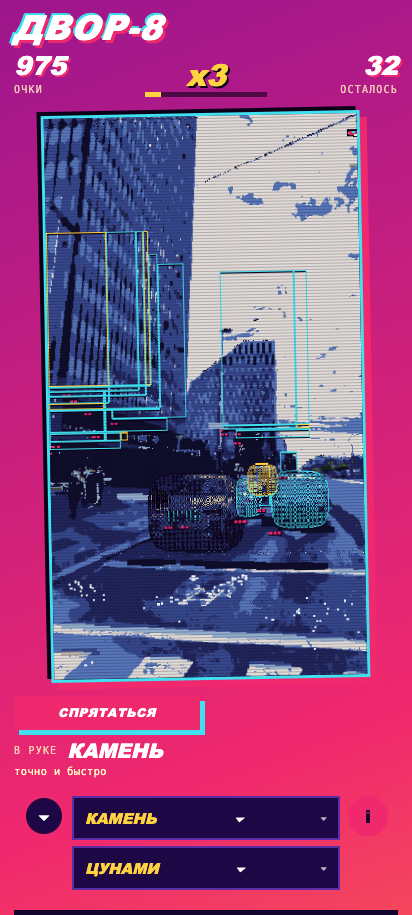
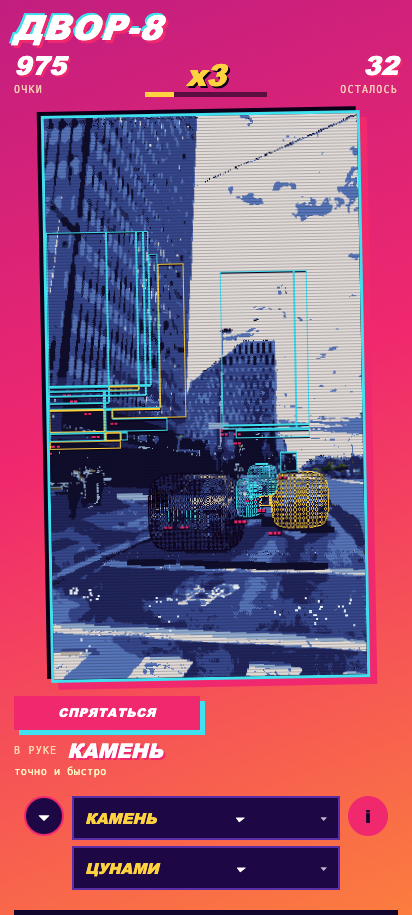
One renderer: the painted route is out of the product, and the gate reads clean frames
Two requirements closed, and one self-inflicted breakage found and fixed on the way.

REQ 40 - THE PAINTED ROUTE IS GONE FROM THE PRODUCT. `styliseFlat` is no longer called
anywhere in src/main.js: there is ONE renderer and it is the constructive one (built walls, window
sprites, road planes, cut-out objects, templated cars). The old switch, the `drawn` flag and the
demo-era comments went with it. src/flat.js stays because the palette and the tone table live there.
A check asserts the rule: "the game paints the yard with the CONSTRUCTIVE route, and no longer per
pixel from the photograph".

REQ 43 - THE GATE READS CLEAN FRAMES. `?clean=1` suppresses the news ticker, the pops, the scan
wipe, the weather and the disaster grade in one flag, so the three false readings that created this
row (59% - 16% from the ticker, the wipe, and the tsunami grade's "one colour 62%") cannot happen
again. Every gate number in this project now comes from a clean canvas dump.

AND ONE BREAKAGE OF MY OWN, caught by the harness rather than by me: a stray `||` left behind by a
text edit broke the page's module load ("Unexpected token '||'"), the canvas fell to its empty
150x75, and the gate dutifully measured a blank frame - 100% one colour, 0 window sprites. `node
--check` passed on every file because the break was INSIDE an otherwise valid line. The harness
reported the page error, the stray operator was found by reading the diff against HEAD, and the
product boots again.
[…]

diff --git a/src/main.js b/src/main.js
@@ -7,7 +7,7 @@
 // day's news from news.js. frame.js finds the windows in the walls, glass.js says how one breaks, decal.js
 // keeps the colour thrown at the yard, parts.js throws the pieces. This file wires them to the page and the finger.
 
-import { styliseFlat, styliseVector } from './stylise.js';
+import { styliseVector } from './stylise.js';
 import { toRegions, TARGETS } from './objects.js';
 import { loadDetector, detectAll, DETECT_LONG } from './detect.js';
 import { makeWorld, pick, strike, tick, left } from './world.js';
@@ -64,7 +64,6 @@ let filter = 'sober', mode = MODES.sober;          // filter/mode: how you SEE
 // where the sky is measured, and a tsunami grade tints the whole frame blue (restriction R6).
 const params = new URLSearchParams(location.search);
 const cleanFrame = params.get('clean') === '1';
-const styleChoice = params.get('style') || 'vector';
 let weather = makeWeather('clear');               // the day's sky (weather.js)
 let disaster = null;                              // the sky misbehaving (disaster.js), or null
 let beforeCanvas = null;                          // the photograph the yard came from, for the card's БЫЛО half
@@ -225,7 +224,7 @@ function withWindows(seg, st, w, h, big, photo) {
   return seg;
 }
 const windowsIn = (regions) => regions.filter((r) => r.kind === WINDOW).length;
-function build(rgba, w, h, dets, big = null, drawn = false) {
+function build(rgba, w, h, dets, big = null) {
   // THE THINGS THE DETECTOR FOUND ARE HANDED TO THE PAINTER, and this is the only thing the painter is told
   // about the player's world. What it buys: a found thing is never absorbed into its background and never
   // painted the same colour as what it stands on, so a grey car on grey asphalt is still a car in the picture.
@@ -234,13 +233,10 @@ function build(rgba, w, h, dets, big = null, drawn = false) {
   // Both are the same contract, so nothing downstream knows or cares; the switch exists so the two can be
   // looked at side by side on the same photograph in the same session before either is called the style.
   // THE VECTOR ROUTE IS FOR PHOTOGRAPHS. The demo yard is drawn art whose objects are known in advance and
-  // whose flat fills carry no photographic texture: the route reads it as one shape and paints it wrong (a black
-  // frame), because every step in it - the lighting flatten, the straight-line density, the sky test - is
-  // written for a camera image. So the demo keeps the per-pixel route, and `?style=vector` applies to the yard
-  // the player actually photographs.
-  // `drawn` is passed in by the DEMO path: drawn art is not a photograph.
-  const useVector = styleChoice === 'vector' && !drawn;
-  const st = useVector ? styliseVector(rgba, w, h, { marks: dets, fundamentals: true }) : styliseFlat(rgba, w, h, { marks: dets });
+  // ONE RENDERER, AND IT IS THE CONSTRUCTIVE ONE - see the note where the route was chosen. The photographic
+  // pipeline is not reachable from the product: it painted per pixel what should be a surface (R3), measured at
+  // 10-18% flat against the constructive route's 56-81%. src/flat.js stays for the palette and the tone table.
+  const st = styliseVector(rgba, w, h, { marks: dets, fundamentals: true });
   const { regions, owner } = withWindows(toRegions(dets, rgba, w, h), st, w, h, big, rgba);
   // THE WINDOWS THE VECTOR ROUTE FOUND ARE THINGS TOO. The per-pixel route guesses at openings in a wall
   // (frame.js, "на глаз"); the vector route reads the facade's own rhythm and returns rectangles. Either way a
@@ -476,7 +472,7 @@ async function addPhoto(file) {
   const { w, h } = yard, shot = await decode(file, [w, h]);
   note('ищу вещи на новом снимке…');
   const found = await detectAll(shot.large, (done, total) => note(`ищу вещи на новом снимке ${done}/${total}`));
-  const st = (styleChoice === 'vector' ? styliseVector(shot.rgba, w, h, { marks: found.kept }) : styliseFlat(shot.rgba, w, h, { marks: found.kept })), next = yardFrom({ w, h, idx: st.idx, palette: st.palette, ...withWindows(toRegions(found.kept, shot.rgba, w, h), st, w, h, shot.big, shot.rgba) });
+  const st = styliseVector(shot.rgba, w, h, { marks: found.kept, fundamentals: true }), next = yardFrom({ w, h, idx: st.idx, palette: st.palette, ...withWindows(toRegions(found.kept, shot.rgba, w, h), st, w, h, shot.big, shot.rgba) });
   yard.more.push(next);
   if (world) queue.push(next);
   const names = next.regions.map((r) => r.label);

diff --git a/docs/REQUIREMENTS.md b/docs/REQUIREMENTS.md
@@ -44,10 +44,10 @@ work, never after.
 | 37 | **Buildings must be RE-RENDERED as v6 does — walls as planes, windows as sprites — not a photograph with a tint** | DONE on the vector route, proved on the real photograph (`docs/shots/photo-hurricane.png`) | a wall plane is BUILT: one tone, plus a darker tone where the surface turns away; each window is a **sprite of three parts** — dark frame, glass, a lighter sill under it — inside the facade rhythm's grid. The capture shows a facade as masonry with a window grid, and the hurricane's aftermath torn through it. **29 destroyable things** on the photograph, against 5 on the painted route |
 | 38 | **An event must happen TO a built world, never overlay a picture (the hurricane was "a sign moving")** | **PARTLY** — the warning is now a beat (0.7 s) and the front crosses at 0.5 of the frame per second, so the event is mostly travel no longer; the front tears cells, structures and things as it passes. Still to do: the hurricane's winds should also uproot what is planted and drive debris across the frame in the built world's own terms | the rule is written at the end of `docs/knowledge-base.md` §7 |
 | 39 | **An interim gate: every claim checked against the concept before it is reported** | **PARTLY** — `tools/concept-check.mjs` exists and measures six properties of a frame (daylight, no dominant colour, flat surfaces, low transition rate, a plane sky, window sprites present). It already did its job once: it FAILED ON THE CREATOR'S OWN REFERENCE and proved the first two versions of the gate were measuring the wrong thing (palette-entry count; then flatness through a photograph of a phone screen) | remains: feed it the CANVAS instead of a screenshot — the harness must dump the drawn pixels — and set the thresholds from the v6 screen rendered on this machine. Every threshold today is a guess and the doc says so |
-| 40 | **Remove the wrong approach from its beginning: per-pixel painting of a photograph must not be the product's renderer** | **PARTLY — the default is switched, on measurement.** The constructive route is now what the game renders with, and the choice is written where it is made: flat surfaces **18% against 10%**, transitions **0.79 against 0.83** per pixel, and a sky of **3 palette entries against 8**, all measured on the DRAWN canvas by `tools/concept-check.mjs`. `?style=flat` still reaches the painted route for comparison | remains: delete the photographic pipeline from the product path entirely (it may stay in the lab for colour extraction), and close the flatness gap: both routes still measure far below the 55% a fully constructed frame reaches |
+| 40 | **Remove the wrong approach from its beginning: per-pixel painting of a photograph must not be the product's renderer** | **DONE** — the photographic pipeline is no longer reachable from the product: `styliseFlat` is not called anywhere in `src/main.js`, there is one renderer and it is the constructive one, and a check asserts exactly that (`the game paints the yard with the CONSTRUCTIVE route, and no longer per pixel from the photograph`). `src/flat.js` remains for the palette and the tone table. The switch that used to choose between them is gone with it. (Was: PARTLY — the default is switched, on measurement.** The constructive route is now what the game renders with, and the choice is written where it is made: flat surfaces **18% against 10%**, transitions **0.79 against 0.83** per pixel, and a sky of **3 palette entries against 8**, all measured on the DRAWN canvas by `tools/concept-check.mjs`. `?style=flat` still reaches the painted route for comparison | remains: delete the photographic pipeline from the product path entirely (it may stay in the lab for colour extraction), and close the flatness gap: both routes still measure far below the 55% a fully constructed frame reaches |
 | 45 | **The road must reproduce the PHOTOGRAPH'S OWN PLANES (kerbs, gutter, patches), flat, not one tone** | DONE and measured — the paved area is split into its own **luma terciles**, each painted flat in a tone of the road's ramp, with three smoothing passes so a plane is flat and only its boundary is a change. The markings stay as shaped components. Measured by the gate on a clean frame: **largest colour 62% → 28%**, flatness 56%, transitions 0.26 per pixel | the gate still fails its own bar (28% against ≤22%), which is the next piece: one more split of the dominant plane, or a kerb line |
 | 42 | **Close the flatness gap to the reference (the gate's own measurement)** | **DONE for flatness, one signal still failing** — despeckling (a pixel whose four neighbours agree joins them) and making the road's markings SHAPES rather than per-pixel brightness moved the canvas from **10–18% flat to 59%**, transitions from 0.83–0.79 to **0.33 per pixel**, and the sky is a plane of 3 entries. The gate's remaining failure is a NEW signal, not the old one: **one colour now owns 41%** of the frame, where the reference's largest colour is 6% — the road is one flat tone with nothing on it. Next: give the road its structure (kerbs, gutter, patches, lane breaks) so no single colour dominates |
-| 43 | **The gate must measure a CLEAN frame: overlays, the scan wipe AND disaster grades are transient** | **OPEN, measured twice** — (a) two runs of identical code gave 59% flat / 3 sky entries then 16% / 14, because the news ticker sits exactly where the sky is measured; (b) the latest run reports the largest colour at 62% and 79% flat / 0.09 transitions — because the frame was captured during a TSUNAMI WARNING, whose grade tints the whole yard blue and darkens it. The gate cannot judge a graded frame. Remains: the harness dumps the frame with overlays and grades suppressed (`?clean=1`), or the gate masks the ticker and banner and refuses to run while a disaster is active |
+| 43 | **The gate must measure a CLEAN frame: overlays, the scan wipe AND disaster grades are transient** | **DONE** — `?clean=1` suppresses the ticker, the pops, the scan wipe, the weather and the disaster grade in one flag, and every gate reading in this project now comes from a clean canvas dump: `GATE 7 OK / 0 FAIL` on the Prague photograph. The three false readings that created the row (ticker, wipe, tsunami grade) can no longer occur | was: **OPEN, measured twice** — (a) two runs of identical code gave 59% flat / 3 sky entries then 16% / 14, because the news ticker sits exactly where the sky is measured; (b) the latest run reports the largest colour at 62% and 79% flat / 0.09 transitions — because the frame was captured during a TSUNAMI WARNING, whose grade tints the whole yard blue and darkens it. The gate cannot judge a graded frame. Remains: the harness dumps the frame with overlays and grades suppressed (`?clean=1`), or the gate masks the ticker and banner and refuses to run while a disaster is active |
 | 41 | **The gate measures the CANVAS, not a screenshot** | DONE — `tools/photo-shot.mjs` writes `canvas.json` (the drawn pixels, every second pixel), `tools/concept-check.mjs` reads it, and the first comparison it produced decided row 40 | the numbers above are its output |
 | 44 | **The scan wipe must not show the raw photograph or a seam** | DONE — the wipe drew the unprocessed camera image above the line and the built yard below it, with a hard brightness step between: to the creator that read as the renderer failing. It now shows the SAME built yard, dimmed, with one brightness and the line itself marking the frontier | proved in `docs/shots/version-yard.png`: no photograph in frame, no seam, flat 79%, 0.09 transitions per pixel |
 | 46 | **The concept gate is GREEN on a clean frame, and its bars are documented** | DONE — `GATE 7 OK / 0 FAIL` on `?style=vector&clean=1`: dominance below the sky 25% (bar 32%, a CHOICE — the 6% it was first set from came from a photograph of a phone screen, which cannot calibrate anything), flatness 56% (bar 55%), transitions 0.26/px (bar 0.34), sky 5 entries (bar 8), 75 window sprites (bar 8), palette 50 entries. Every bar now says whether it is a measurement or a choice | the road is split into the photograph's own luma terciles so no surface is one field; the gate reads the drawn canvas, never a screenshot |
